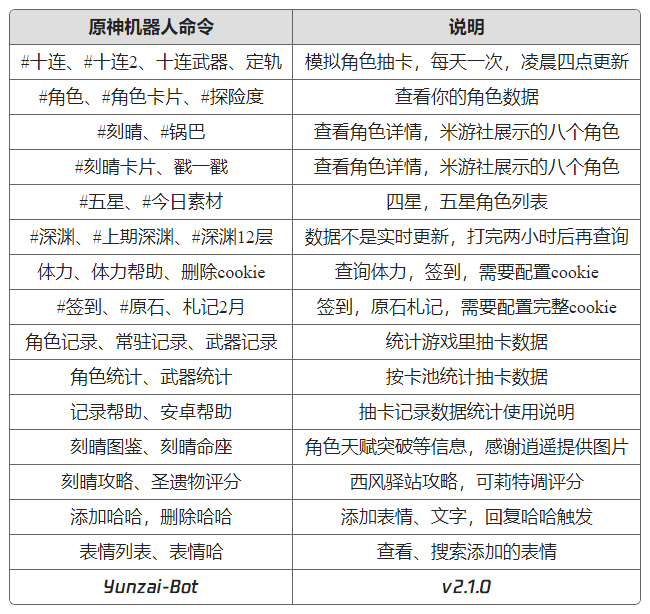
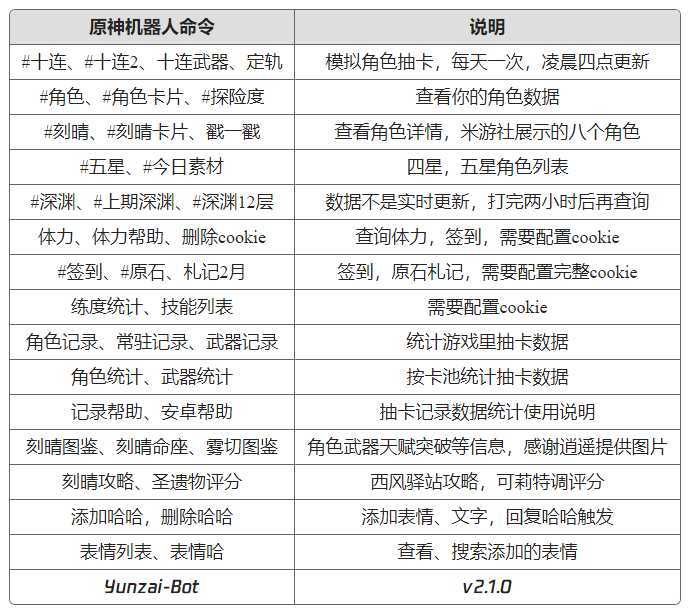
说明修改

diff --git a/resources/help/help.html b/resources/help/help.html
@@ -50,7 +50,7 @@
       text-align: center;
     }
     .container {
-      width: 630px;
+      width: 670px;
       padding: 10px;
     }
     @font-face {
@@ -79,11 +79,7 @@
           <td>查看你的角色数据</td>
         </tr>
         <tr>
-          <td>#刻晴、#锅巴</td>
-          <td>查看角色详情，米游社展示的八个角色</td>
-        </tr>
-        <tr>
-          <td>#刻晴卡片、戳一戳</td>
+          <td>#刻晴、#刻晴卡片、戳一戳</td>
           <td>查看角色详情，米游社展示的八个角色</td>
         </tr>
         <tr>
@@ -101,6 +97,10 @@
         <tr>
           <td>#签到、#原石、札记2月</td>
           <td>签到，原石札记，需要配置完整cookie</td>
+        </tr>
+        <tr>
+          <td>练度统计、技能列表</td>
+          <td>需要配置完整cookie</td>
         </tr>
         <tr>
           <td>角色记录、常驻记录、武器记录</td>

diff --git a/README.md b/README.md
@@ -13,8 +13,7 @@ git clone https://github.com/Le-niao/Yunzai-Bot.git
 cd Yunzai-Bot
 
 用cnpm安装
-npm install -g cnpm --registry=https://registry.npmmirror.com
-cnpm install
+npm install --registry=https://registry.npm.taobao.org
 
 2.首次运行，按提示输入完成配置登录
 node app
